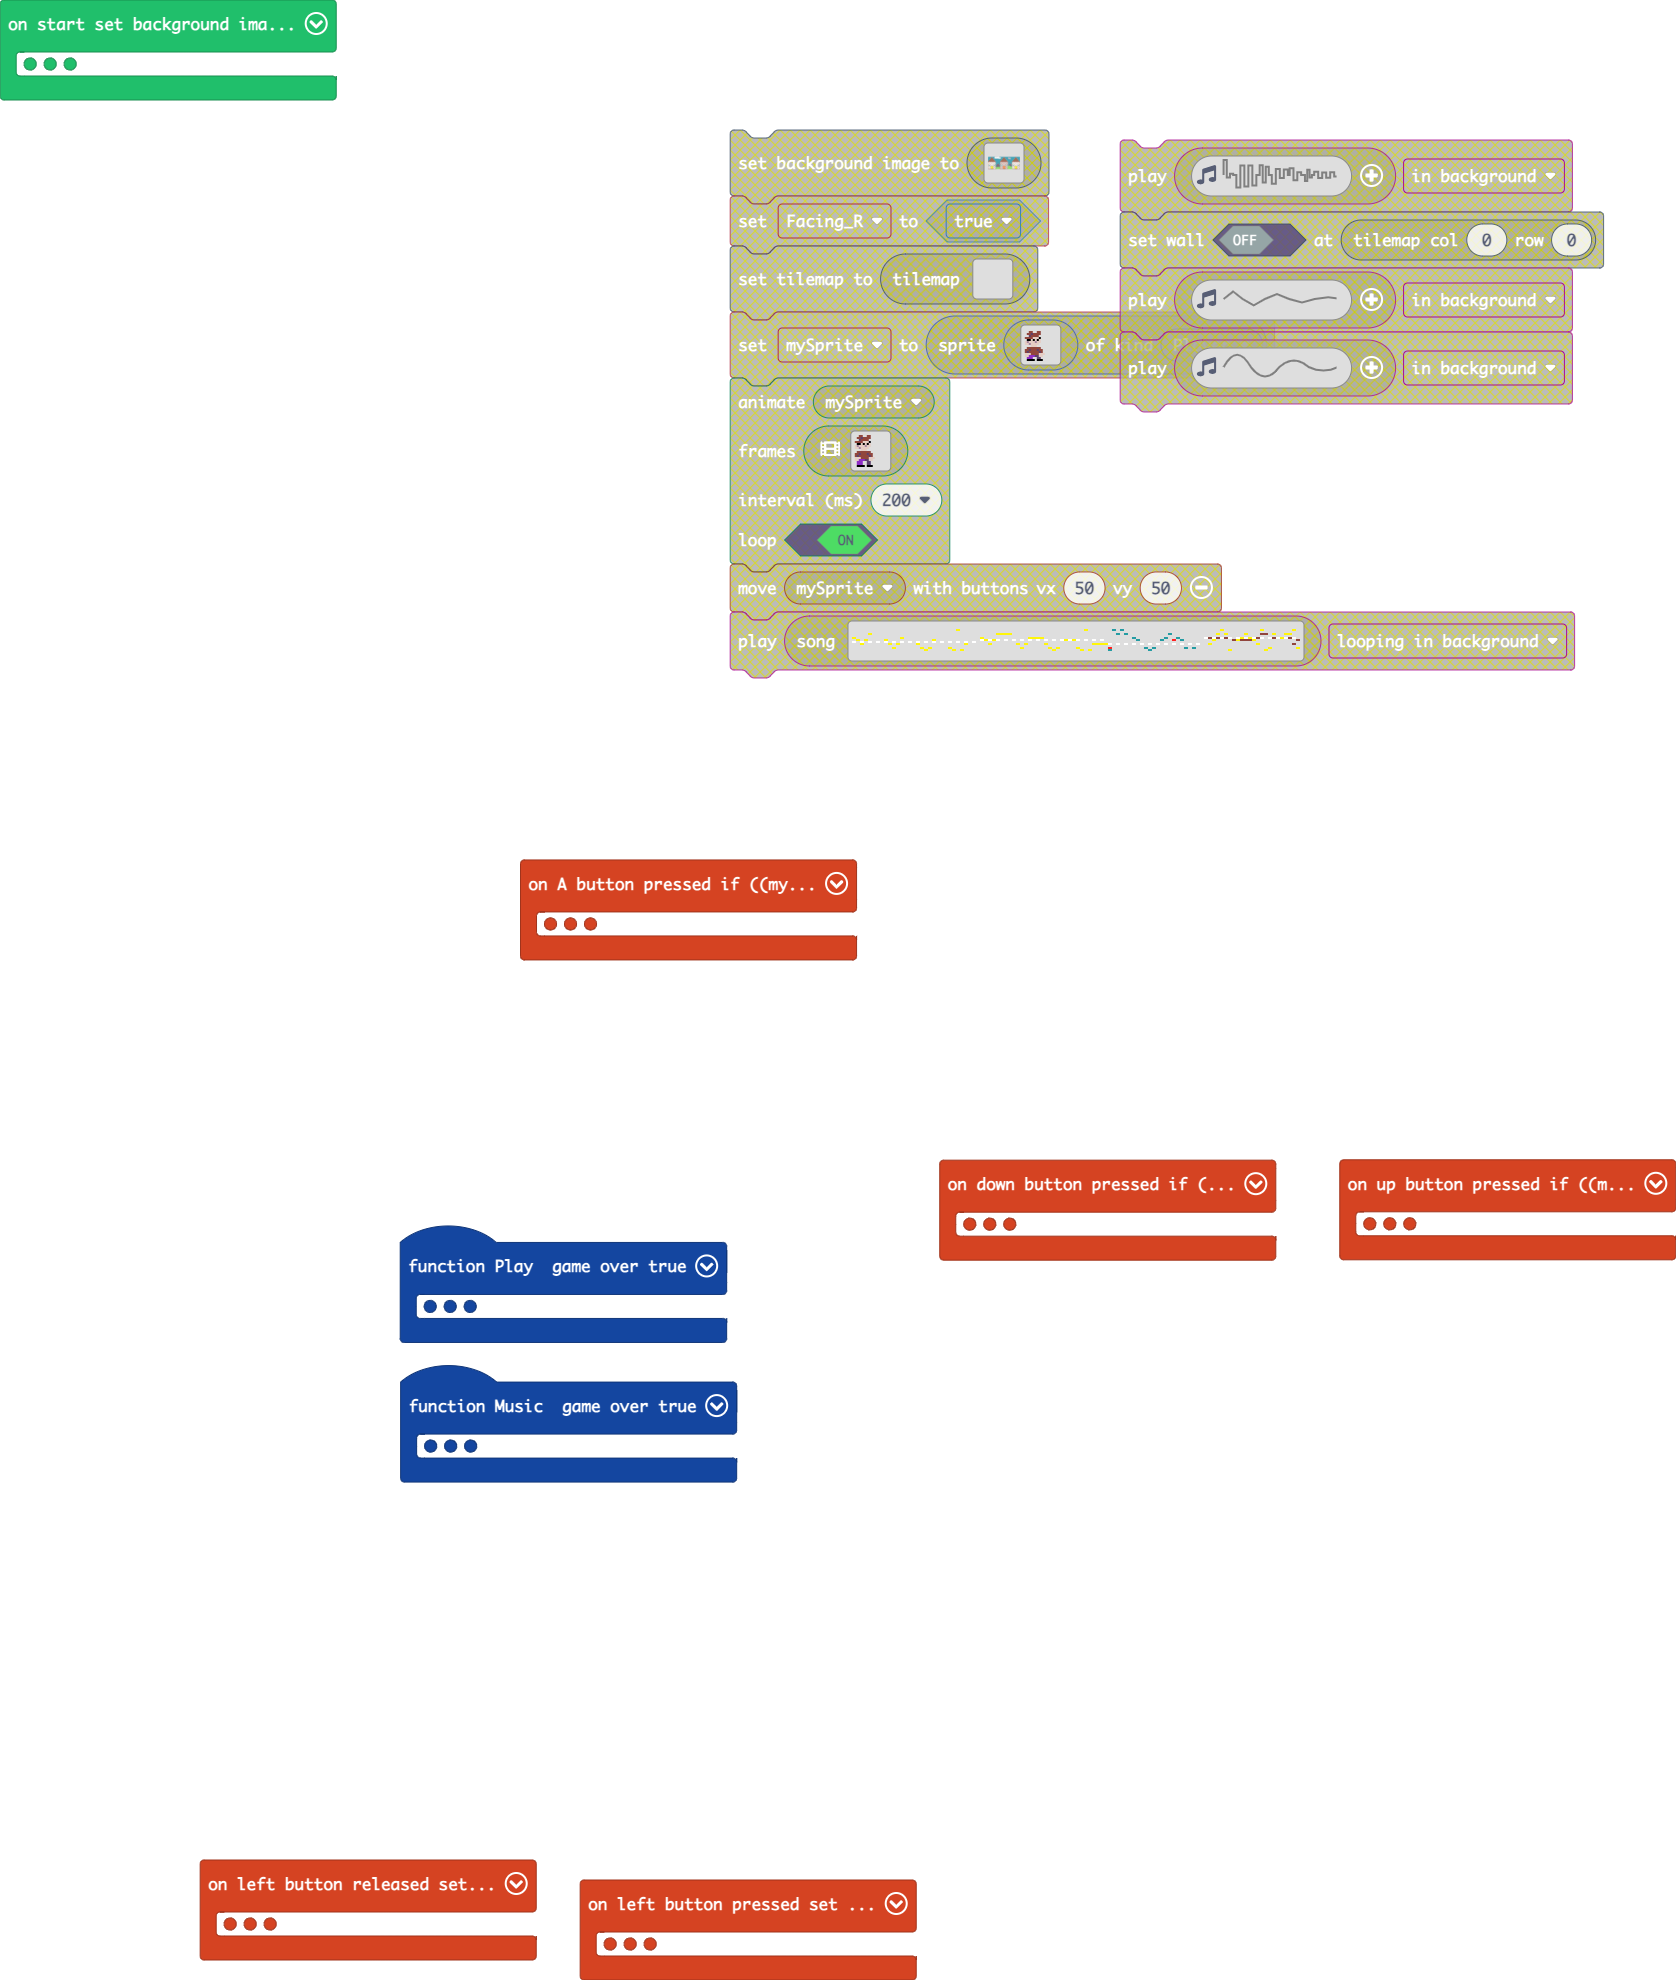
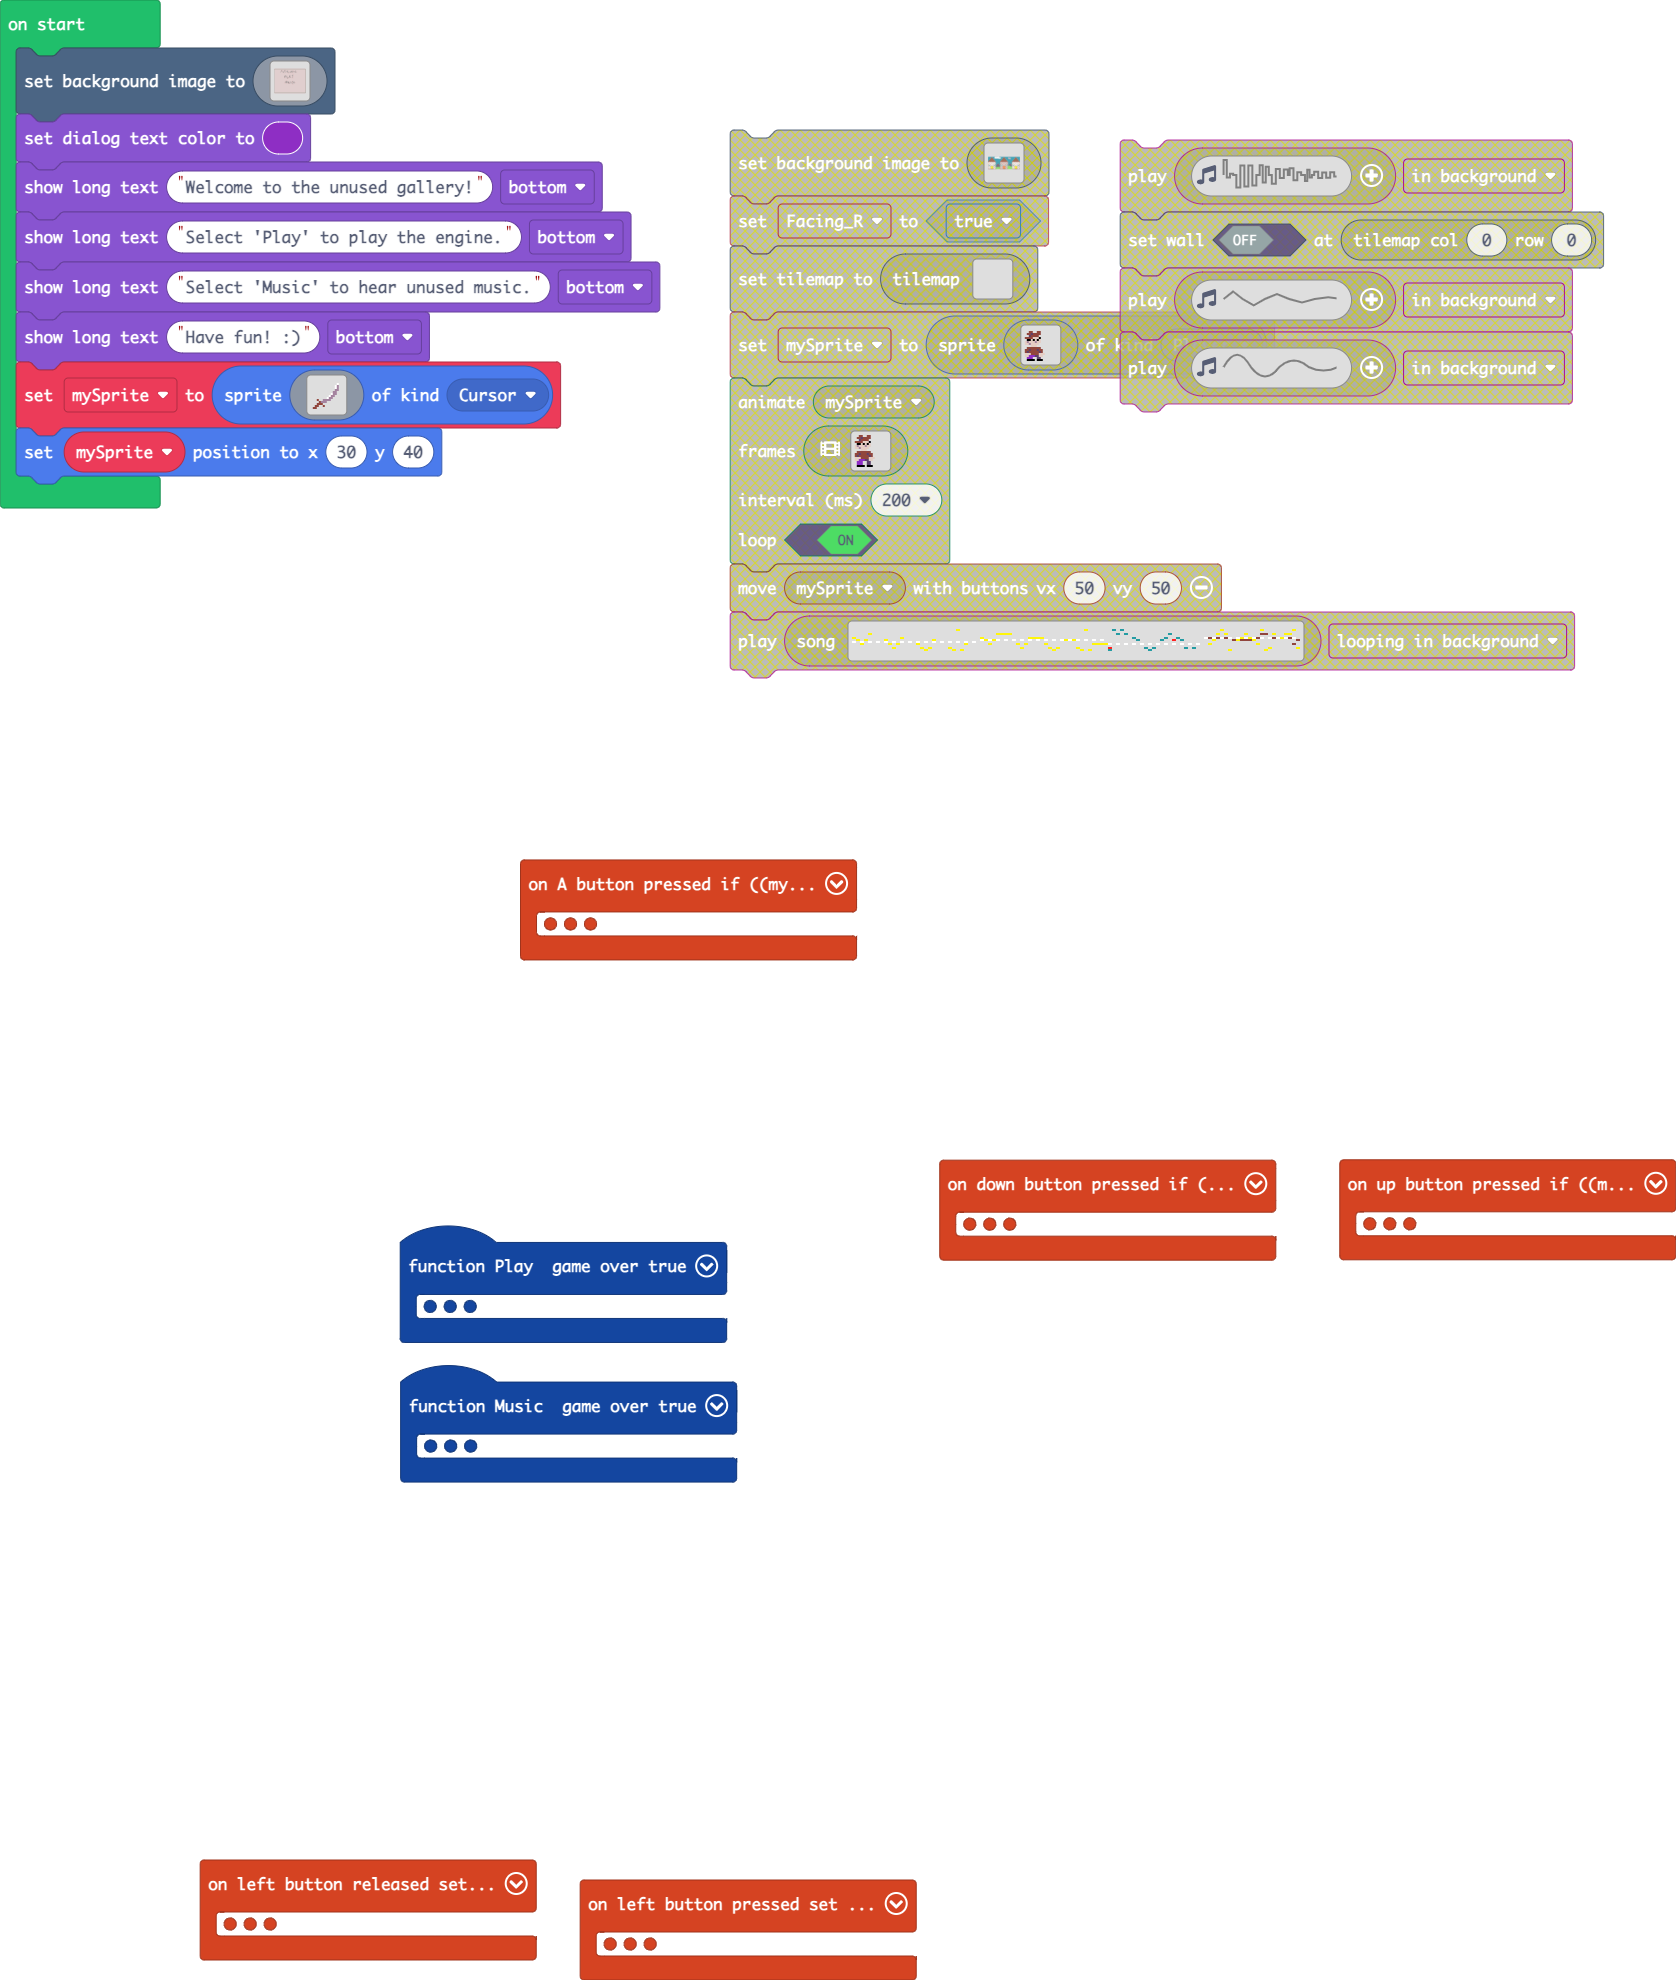
Unused Time

Changed region(s): [[0.0, 0.0, 0.4033, 0.2773]]

diff --git a/main.ts b/main.ts
@@ -58,4 +58,4 @@ game.showLongText("Select 'Play' to play the engine.", DialogLayout.Bottom)
 game.showLongText("Select 'Music' to hear unused music.", DialogLayout.Bottom)
 game.showLongText("Have fun! :)", DialogLayout.Bottom)
 mySprite = sprites.create(assets.image`myImage`, SpriteKind.Cursor)
-mySprite.setPosition(30, 65)
+mySprite.setPosition(30, 40)
